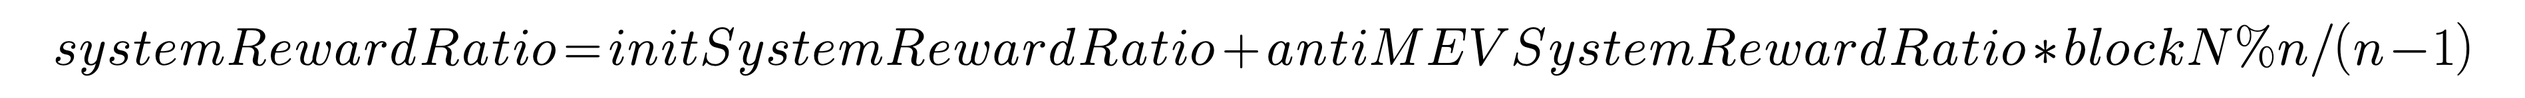
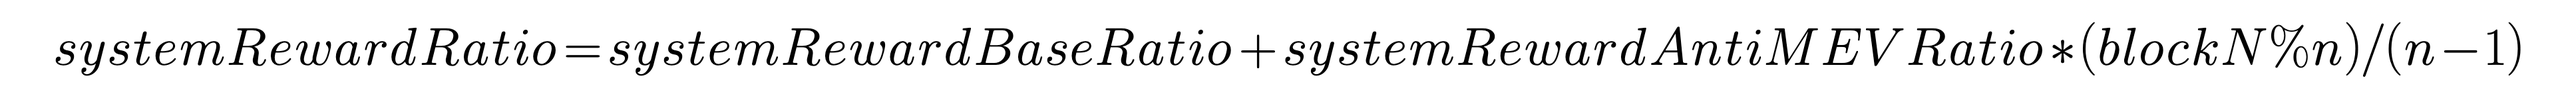
rename vars about combatting MEV

diff --git a/BEPs/BEP-341.md b/BEPs/BEP-341.md
@@ -86,8 +86,8 @@ To prevent fewer than 1/2 of the nodes from controlling the entire network, bloc
 When n=1, it is equivalent to disabling the feature of consecutive block production, while significant optimization is observed when n belongs to the range [3,5]. Currently, the range for the value of n is set to [1,9] but except 2.
 
 #### 4.2.5 Combatting MEV
-As the consecutive period in which a single validator gains priority in block production extends, it may facilitate MEV extraction, potentially leading validators to include more transactions in the later blocks they consecutively produce. To constrain validators to promptly package transactions, within a validator's consecutive priority over n blocks, the transaction fees' split to the SystemRewardContract will increase linearly with block number, capped at the value denoted as antiMEVSystemRewardRatio.
-Respectively, the split ratio remains at initSystemRewardRatio when continuous block production is disabled. Once continuous block production is enabled (i.e., when n > 1), the systemRewardRatio is calculated as:
+As the consecutive period in which a single validator gains priority in block production extends, it may facilitate MEV extraction, potentially leading validators to include more transactions in the later blocks they consecutively produce. To constrain validators to promptly package transactions, within a validator's consecutive priority over n blocks, the transaction fees' split to the SystemRewardContract will increase linearly with block number, capped at the value denoted as systemRewardAntiMEVRatio.
+Respectively, the split ratio remains at systemRewardBaseRatio when continuous block production is disabled. Once continuous block production is enabled (i.e., when n > 1), the systemRewardRatio is calculated as:
 <div align="center">
 <img src=./assets/bep-341/4.2.5-1.png width=150% />
 </div>
@@ -95,7 +95,7 @@ as shown in the following picture:
 <div align="center">
 <img src=./assets/bep-341/4.2.5-2.png width=75% />
 </div>
-In addition, antiMEVSystemRewardRatio will be governable.
+In addition, systemRewardAntiMEVRatio will be governable.
 
 ## 5. Incentive Fairness Analysis
 Within a single epoch, tail validators have fewer block-producing opportunities, but the allocation of priority rights is unbiased and cannot be manipulated. Therefore, from a statistical perspective, it is fair.
